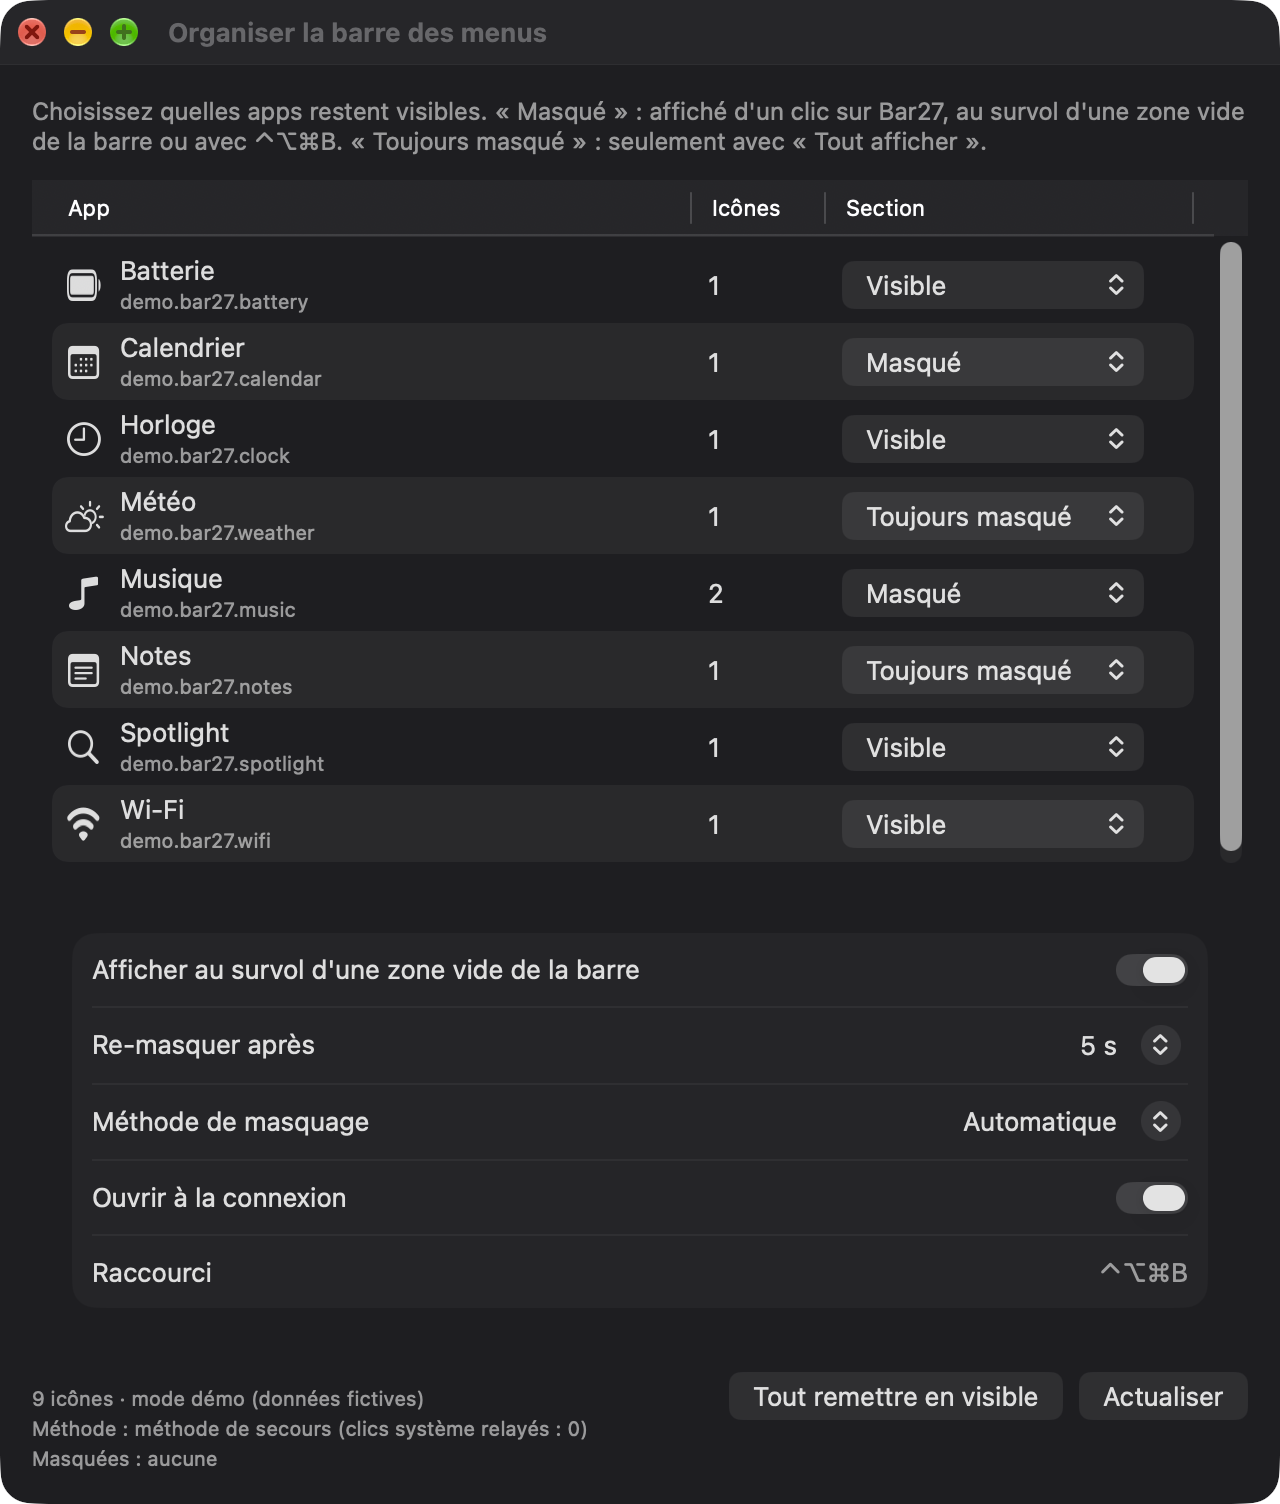
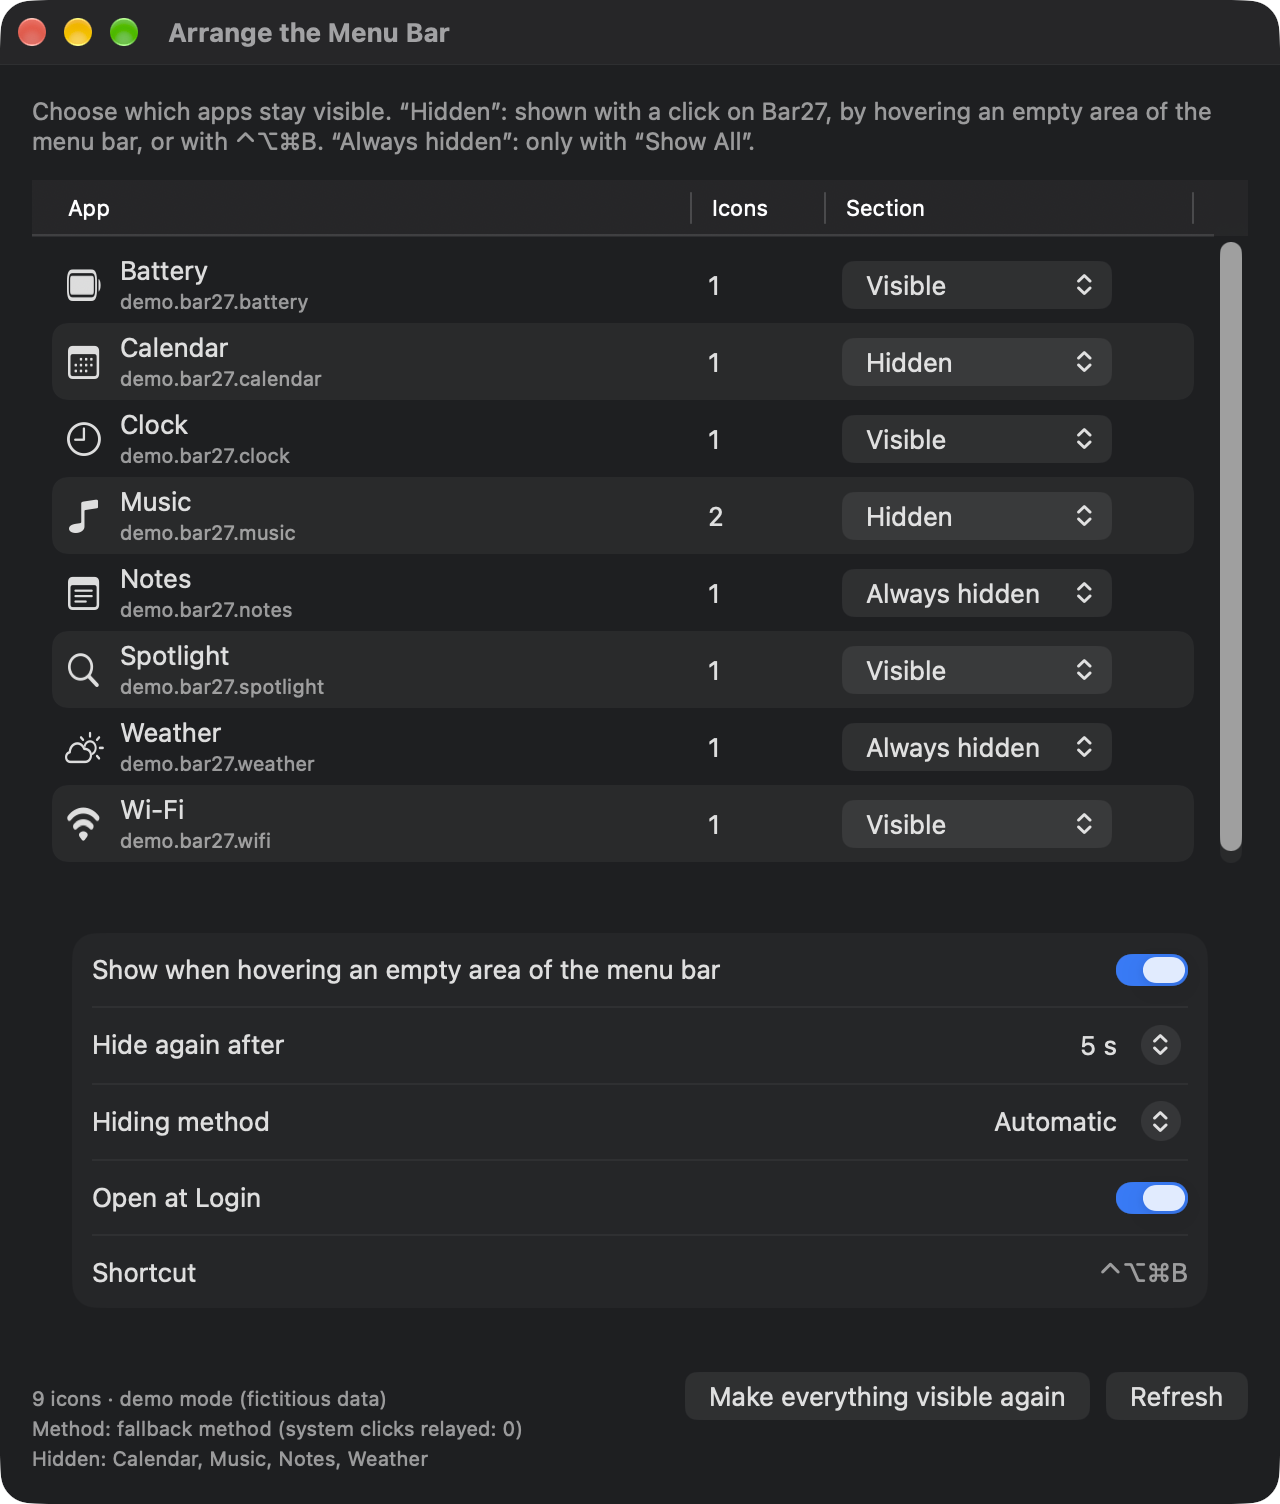
Add English and French screenshots, drop French-only note
Retake the arrange window screenshot from the English build (window only, demo data), add arrange-window-fr.png for the French README and remove the French-only remark.

diff --git a/README.fr.md b/README.fr.md
@@ -10,8 +10,9 @@ dont vous n'avez pas besoin et les réaffiche d'un clic.
 - Clic sur l'icône Bar27 : masquer / afficher les apps rangées dans « Masqué ».
 - Clic droit : menu (Tout afficher, Organiser la barre…, Quitter).
 - « Organiser la barre » : choisir pour chaque app Visible, Masqué ou Toujours masqué.
+- Interface en français et en anglais, selon la langue du système.
 
-![Fenêtre « Organiser la barre des menus », avec des données de démonstration](docs/screenshots/arrange-window.png)
+![Fenêtre « Organiser la barre des menus », avec des données de démonstration](docs/screenshots/arrange-window-fr.png)
 
 macOS 27 masque **par application** et range lui-même les icônes ; Bar27 ne réordonne pas.
 

diff --git a/README.md b/README.md
@@ -30,9 +30,10 @@ system's own ordering.
 - **Auto re-hide** with an adjustable delay.
 - **Right-click menu**: Show all, Arrange the bar…, Quit.
 - **Native hiding first**: uses the system's own per-app switch when Full Disk Access is granted, and falls back to the "assessment mode" assertion otherwise.
+- **English and French**, following the system language.
 - Open source, no telemetry.
 
-![The "Arrange the bar" window, shown with demo data (the interface is currently French only)](docs/screenshots/arrange-window.png)
+![The "Arrange the bar" window, shown with demo data](docs/screenshots/arrange-window.png)
 
 ## Installation
 
